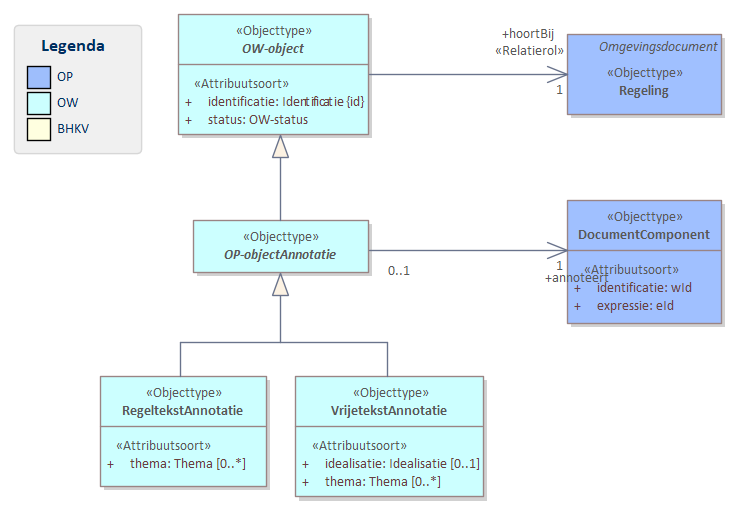
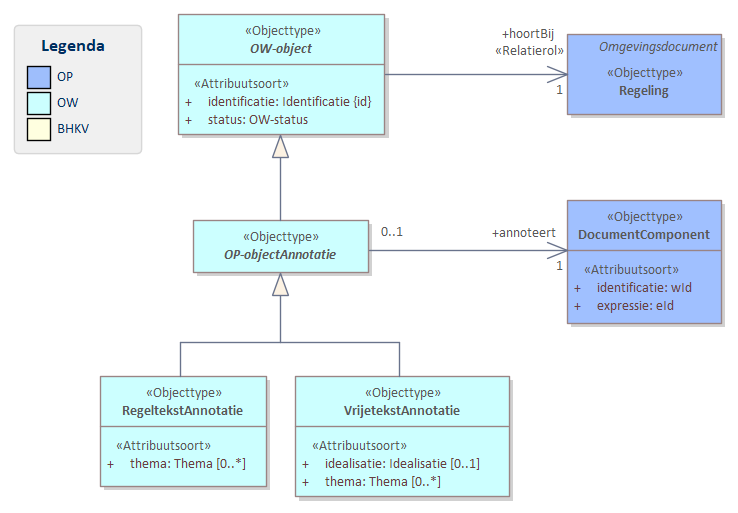
MIMCM-dso-cim-ow-1.0-0-20230213-20231009-141643

diff --git a/data/dso-cim-ow-cat.respec.html b/data/dso-cim-ow-cat.respec.html
@@ -1,7 +1,7 @@
 
 <!DOCTYPE HTML><section id="cat" class="normative">
    <h2>Gegevensdefinitie</h2>
-   <!--MIMCM-dso-cim-ow-1.0-0-20230213-20231009-134834 imvertor Nightly-build.10-->
+   <!--MIMCM-dso-cim-ow-1.0-0-20230213-20231009-141643 imvertor Nightly-build.10-->
    <section id="global_packages">
       <h3>Model   dso-cim-ow</h3>
       <section id="EAID_199FD13D_8495_487c_8D35_8C11BB634BAE">
@@ -19,7 +19,7 @@
          <h4>   OW-OP - overzicht</h4>
          <div class="imageinfo overview">
             <figure><img src="data/Images/EAID_E3A46D6F_3ED0_4808_82AD_D7173DDFDAC4.png" usemap="#imagemap-EAID_E3A46D6F_3ED0_4808_82AD_D7173DDFDAC4" alt="Diagram &#xA;                        OW-objecten maken een Regeling machine leesbaar en horen altijd bij precies één Regeling.  OW-objectAnnotatie objecten hebben een 1 op 1 koppeling met een DocumentComponent in de Regeling. Alle andere OW-objecten die bij de Regeling horen zijn via relaties aan de OP-objectannotatie en dus aan een DocumentComponent gekoppeld.&#xA;                        Er zijn twee soorten annotaties: &#xA;                        In Regelingen met artikelstructuur worden RegeltekstAnnotaties gebruikt die  altijd naar een Artikel of Lid en verwijzen. In regelingen met een vrije-tekststrutuur verwijst een OP-objectannotatie altijd naar een Divisie of Divisietekst&#xA;                     "><figcaption>OW-OP</figcaption>
-            </figure><map name="imagemap-EAID_E3A46D6F_3ED0_4808_82AD_D7173DDFDAC4"><area shape="rect" alt="OW-object" coords="178,14,369,135" href="#global_class_DatatypenAlgemeen_OWObject"><area shape="rect" alt="VrijetekstAnnotatie" coords="295,376,484,497" href="#global_class_VrijeTekst_VrijetekstAnnotatie"><area shape="rect" alt="RegeltekstAnnotatie" coords="100,376,267,487" href="#global_class_Regel_RegeltekstAnnotatie"><area shape="rect" alt="OP-objectAnnotatie" coords="193,220,369,273" href="#global_class_DatatypenAlgemeen_OPObjectAnnotatie"></map><p>
+            </figure><map name="imagemap-EAID_E3A46D6F_3ED0_4808_82AD_D7173DDFDAC4"><area shape="rect" alt="OW-object" coords="178,14,385,135" href="#global_class_DatatypenAlgemeen_OWObject"><area shape="rect" alt="VrijetekstAnnotatie" coords="295,376,510,497" href="#global_class_VrijeTekst_VrijetekstAnnotatie"><area shape="rect" alt="RegeltekstAnnotatie" coords="100,376,267,487" href="#global_class_Regel_RegeltekstAnnotatie"><area shape="rect" alt="OP-objectAnnotatie" coords="193,220,369,273" href="#global_class_DatatypenAlgemeen_OPObjectAnnotatie"></map><p>
                
                <p>OW-objecten maken een Regeling machine leesbaar en horen altijd bij precies één Regeling.
                   OW-objectAnnotatie objecten hebben een 1 op 1 koppeling met een DocumentComponent
@@ -15054,7 +15054,7 @@
 </section>
 <section id="lis" class="normative">
    <h2>Inhoud van waardenlijsten</h2>
-   <!--MIMCM-dso-cim-ow-1.0-0-20230213-20231009-134834 imvertor Nightly-build.10-->
+   <!--MIMCM-dso-cim-ow-1.0-0-20230213-20231009-141643 imvertor Nightly-build.10-->
    <section>
       <h3>Referentielijst inhoud   </h3>
       <section id="detail_class_GebiedsAanwijzing_Beperkingengebiedgroep">
